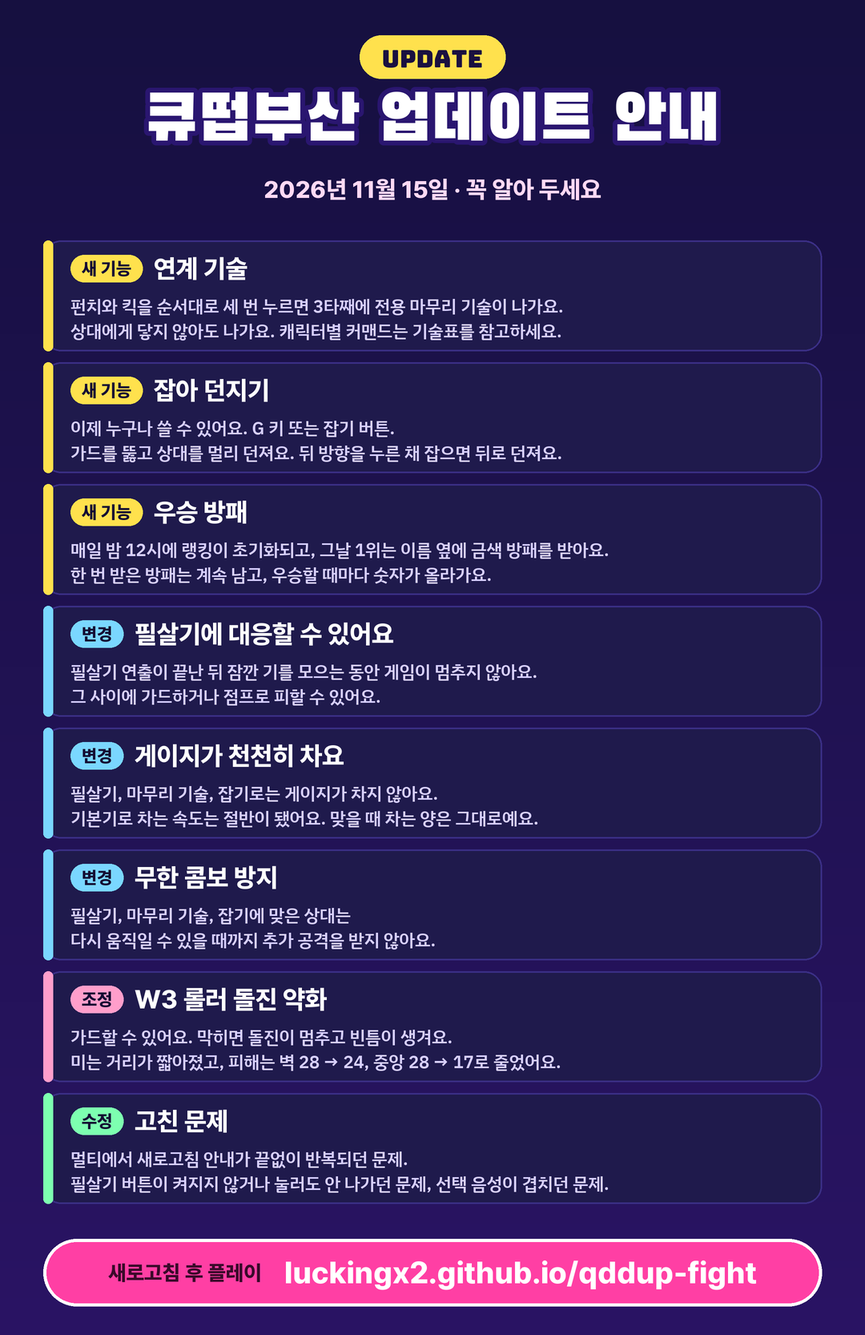
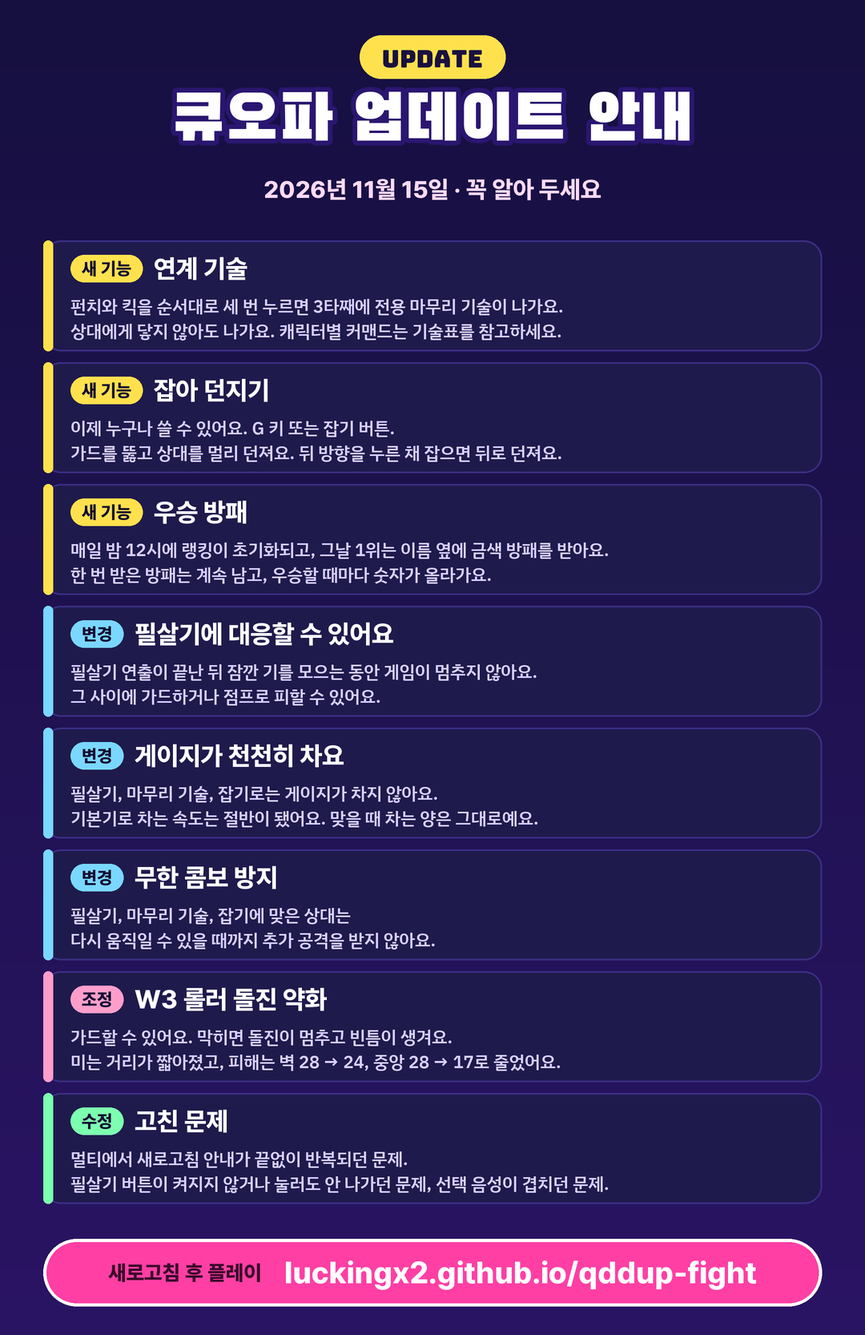
게임 이름을 큐오파로 변경, 첫 화면 표지 교체

Changed region(s): [[0.1528, 0.0624, 0.8556, 0.1248]]

diff --git a/js/assetv.js b/js/assetv.js
@@ -1,2 +1,2 @@
-const ASSET_V={"assets/audio/bgm.mp3":"1aaba7b2","assets/audio/extra-1.mp3":"27643529","assets/audio/qwer-d-day.mp3":"2830167b","assets/audio/qwer-fake-idol.mp3":"d2b479f6","assets/audio/qwer-ferris-wheel.mp3":"120067c3","assets/audio/qwer-fireworks.mp3":"bdbf5ae5","assets/audio/qwer-goodbye-sorrow.mp3":"504b895b","assets/audio/qwer-my-name-is-malguem.mp3":"eebe45ad","assets/audio/qwer-search-qwer.mp3":"e2c33678","assets/audio/qwer-soda.mp3":"25b22c69","assets/audio/qwer-tb-h.mp3":"cb39dc88","assets/audio/voices/E-select.mp3":"017d7db5","assets/audio/voices/E-win.mp3":"9423c33f","assets/audio/voices/Q-select.mp3":"2b9a2cb5","assets/audio/voices/Q-win.mp3":"32c22843","assets/audio/voices/R-select.mp3":"67428aa2","assets/audio/voices/R-win.mp3":"421a2656","assets/audio/voices/W-select.mp3":"bfeec2d0","assets/audio/voices/W-win.mp3":"286b2432","assets/backgrounds/bg_anime.webp":"49189dc7","assets/backgrounds/bg_aqua.webp":"98b68019","assets/backgrounds/bg_band.webp":"b2ecf112","assets/backgrounds/bg_base.webp":"dd71b105","assets/backgrounds/bg_beach.webp":"48f2346a","assets/backgrounds/bg_bridge.webp":"cad93db2","assets/backgrounds/bg_chinatown.webp":"657c2390","assets/backgrounds/bg_classroom.webp":"5df32c50","assets/backgrounds/bg_concert.webp":"2cd4d734","assets/backgrounds/bg_donut.webp":"8b12e605","assets/backgrounds/bg_gym.webp":"c741473c","assets/backgrounds/bg_hanok.webp":"ea64c7f2","assets/backgrounds/bg_park.webp":"f8f69fbf","assets/backgrounds/bg_rain.webp":"c4dbcf99","assets/backgrounds/bg_rooftop.webp":"d08abb70","assets/backgrounds/bg_snow.webp":"0fe806eb","assets/backgrounds/bg_space.webp":"0ff66d08","assets/backgrounds/bg_terminal.webp":"d9e9f158","assets/backgrounds/bg_terminal_arcade.webp":"690b9758","assets/characters/B.webp":"c5a6628e","assets/characters/D.webp":"324939f1","assets/characters/E.webp":"677ed11c","assets/characters/Eb.webp":"11db0723","assets/characters/Ec.webp":"b31b9f96","assets/characters/G.webp":"42d3d0da","assets/characters/Q.webp":"325fa610","assets/characters/Qb.webp":"df11a9f2","assets/characters/Qc.webp":"ab10cb82","assets/characters/R.webp":"85eb20a9","assets/characters/Rb.webp":"7c654750","assets/characters/Rc.webp":"2e6c0a8f","assets/characters/Rd.webp":"b71dec04","assets/characters/W.webp":"9e1fc381","assets/characters/Wb.webp":"ae1be10e","assets/characters/Wc.webp":"da20931e","assets/characters/ostrich-r.webp":"f36485a3","assets/emotes/icon_1.webp":"e834c9fc","assets/emotes/icon_13.webp":"ced6be1a","assets/emotes/icon_19.webp":"6eca9b25","assets/emotes/icon_22.webp":"ad3d03f1","assets/emotes/icon_28.webp":"cb4c7512","assets/emotes/icon_33.webp":"57cf40f0","assets/emotes/icon_34.webp":"333682d6","assets/emotes/icon_36.webp":"1de00e10","assets/emotes/icon_38.webp":"52043a2f","assets/emotes/icon_39.webp":"ff33cab9","assets/emotes/icon_41.webp":"3f5fabf0","assets/emotes/icon_45.webp":"addf7b16","assets/emotes/icon_46.webp":"024ab088","assets/emotes/icon_49.webp":"be67b384","assets/emotes/icon_50.webp":"3c880ad8","assets/emotes/icon_57.webp":"7f6e5ae8","assets/emotes/icon_62.webp":"099a9ec7","assets/emotes/icon_65.webp":"d664ad8d","assets/emotes/icon_69.webp":"2050c1ed","assets/emotes/icon_8.webp":"3fe0846f","assets/emotes/icon_87.webp":"905d0d99","assets/emotes/icon_89.webp":"37372a3d","assets/emotes/icon_91.webp":"89b48092","assets/emotes/icon_92.webp":"6fb425ef","assets/emotes/icon_94.webp":"b110da8e","assets/emotes/icon_95.webp":"9a6b4437","assets/emotes/icon_98.webp":"2d258415","assets/emotes/thumb/icon_1.webp":"136837e5","assets/emotes/thumb/icon_13.webp":"5e3867c1","assets/emotes/thumb/icon_19.webp":"d6eb0f03","assets/emotes/thumb/icon_22.webp":"a767fc76","assets/emotes/thumb/icon_28.webp":"ec98b5a2","assets/emotes/thumb/icon_33.webp":"6408ba02","assets/emotes/thumb/icon_34.webp":"2aa3c54a","assets/emotes/thumb/icon_36.webp":"dc3e9788","assets/emotes/thumb/icon_38.webp":"7f85a09d","assets/emotes/thumb/icon_39.webp":"b1fadb0d","assets/emotes/thumb/icon_41.webp":"7303712b","assets/emotes/thumb/icon_45.webp":"7a1924c5","assets/emotes/thumb/icon_46.webp":"5835c768","assets/emotes/thumb/icon_49.webp":"50c5dac4","assets/emotes/thumb/icon_50.webp":"d23a8087","assets/emotes/thumb/icon_57.webp":"40b0eed8","assets/emotes/thumb/icon_62.webp":"a3d334ca","assets/emotes/thumb/icon_65.webp":"d96399f3","assets/emotes/thumb/icon_69.webp":"75195972","assets/emotes/thumb/icon_8.webp":"c5c82ee8","assets/emotes/thumb/icon_87.webp":"75462682","assets/emotes/thumb/icon_89.webp":"fa2fb05b","assets/emotes/thumb/icon_91.webp":"31208034","assets/emotes/thumb/icon_92.webp":"5de92e6a","assets/emotes/thumb/icon_94.webp":"87c7110b","assets/emotes/thumb/icon_95.webp":"eff04fc8","assets/emotes/thumb/icon_98.webp":"5caa213a","assets/faces/B_face.webp":"b1b04403","assets/faces/D_face.webp":"019111cc","assets/faces/E_face.webp":"5a365c76","assets/faces/Eb_face.webp":"52f1f416","assets/faces/Ec_face.webp":"0a22ee57","assets/faces/G_face.webp":"2df10de9","assets/faces/Q_face.webp":"842ad22d","assets/faces/Qb_face.webp":"480c3aff","assets/faces/Qc_face.webp":"30e2ab72","assets/faces/R_face.webp":"646f2d28","assets/faces/Rb_face.webp":"cb5505b5","assets/faces/Rc_face.webp":"025bb463","assets/faces/Rd_face.webp":"f00b88dc","assets/faces/W_face.webp":"c8fbc6b3","assets/faces/Wb_face.webp":"2849e1bc","assets/faces/Wc_face.webp":"2972e762","assets/fonts/BlackHanSans.woff2":"c73265bb","assets/fonts/Bungee.woff2":"8ac97fda","assets/fonts/IBMPlexSansKR-Regular.woff2":"737cb610","assets/fonts/IBMPlexSansKR-SemiBold.woff2":"57c25254","assets/fonts/OFL-BlackHanSans.txt":"380fde59","assets/fonts/OFL-Bungee.txt":"56667743","assets/fonts/OFL-IBMPlexSansKR.txt":"cc979ca3","assets/fonts/OFL-Pretendard.txt":"18fe4610","assets/fonts/Pretendard-ExtraBold.woff2":"1b077a90","assets/lib/peerjs.min.js":"7e60515a","assets/thumbnails/th_anime.jpg":"b3ed8d6a","assets/thumbnails/th_aqua.jpg":"b6233e26","assets/thumbnails/th_band.jpg":"aa12367e","assets/thumbnails/th_base.jpg":"a0ca34c4","assets/thumbnails/th_beach.jpg":"015c1b5a","assets/thumbnails/th_bridge.jpg":"9602dd89","assets/thumbnails/th_chinatown.jpg":"71309555","assets/thumbnails/th_classroom.jpg":"539fc97d","assets/thumbnails/th_concert.jpg":"b9ed6681","assets/thumbnails/th_donut.jpg":"0606e81c","assets/thumbnails/th_gym.jpg":"4426af79","assets/thumbnails/th_hanok.jpg":"df80f531","assets/thumbnails/th_park.jpg":"cf62f3c3","assets/thumbnails/th_rain.jpg":"515447f1","assets/thumbnails/th_rooftop.jpg":"bfd5d01a","assets/thumbnails/th_snow.jpg":"0159d7c5","assets/thumbnails/th_space.jpg":"5184dfa8","assets/thumbnails/th_terminal.jpg":"62f1e04b","assets/thumbnails/th_terminal_arcade.jpg":"ebf49341","assets/ui/qddup-busan-cover.jpg":"04b05f5f","assets/ui/qddup-busan-share.jpg":"23fca48c","assets/ui/qddup-busan-title.mp4":"1bfd18a7","assets/ui/roster-energy.webp":"add15ffe","assets/ui/roster/B.webp":"7de4b487","assets/ui/roster/E.webp":"940c568d","assets/ui/roster/Eb.webp":"bd00a1c0","assets/ui/roster/Ec.webp":"9044e970","assets/ui/roster/G.webp":"acd26a21","assets/ui/roster/Q.webp":"91b08bca","assets/ui/roster/Qb.webp":"315030af","assets/ui/roster/Qc.webp":"807f094b","assets/ui/roster/R.webp":"129f48d1","assets/ui/roster/Rb.webp":"536e0533","assets/ui/roster/Rc.webp":"50afe96b","assets/ui/roster/Rd.webp":"08cb5ab8","assets/ui/roster/W.webp":"070725d0","assets/ui/roster/Wb.webp":"c2614728","assets/ui/roster/Wc.webp":"f48d9b9d","assets/ui/title.jpg":"89b0c471","assets/videos/sp_B.mp4":"150e2f15","assets/videos/sp_E2.mp4":"21736269","assets/videos/sp_ET.mp4":"9086c33e","assets/videos/sp_E_fire.mp4":"5477b0e8","assets/videos/sp_Eb_fire.mp4":"3722005c","assets/videos/sp_Ec_fire.mp4":"af3d6c72","assets/videos/sp_G.mp4":"02491534","assets/videos/sp_GT.mp4":"ea8f6b3c","assets/videos/sp_Q.mp4":"9d97462e","assets/videos/sp_Q2.mp4":"eccec935","assets/videos/sp_QT.mp4":"517d9216","assets/videos/sp_Qb.mp4":"ae050595","assets/videos/sp_QbT.mp4":"f0f7e747","assets/videos/sp_Qc.mp4":"c8c7d81f","assets/videos/sp_QcT.mp4":"b05c5bd9","assets/videos/sp_R.mp4":"5e365d9b","assets/videos/sp_R2.mp4":"4cc11253","assets/videos/sp_RT.mp4":"2159bf91","assets/videos/sp_Rb.mp4":"c2c76571","assets/videos/sp_Rc.mp4":"cf1e9842","assets/videos/sp_RcT.mp4":"ee13eac9","assets/videos/sp_Rd.mp4":"d3ba4c66","assets/videos/sp_W.mp4":"631249ac","assets/videos/sp_W2.mp4":"34a85605","assets/videos/sp_WT.mp4":"455ada0a","assets/videos/sp_Wb.mp4":"28692d4d","assets/videos/sp_WbT.mp4":"d18a11b6","assets/videos/sp_Wc.mp4":"3fe96d12","assets/videos/sp_WcT.mp4":"e9213c75","assets/videos/win_E.mp4":"61c0dbbd","assets/videos/win_Eb.mp4":"f2eac728","assets/videos/win_Ec.mp4":"e704afee","assets/videos/win_Q.mp4":"f5259b04","assets/videos/win_Qb.mp4":"823f7246","assets/videos/win_Qc.mp4":"6fced5a8","assets/videos/win_R.mp4":"85216692","assets/videos/win_Rb.mp4":"78ffa0bc","assets/videos/win_Rc.mp4":"93689f08","assets/videos/win_Rd.mp4":"befb25e6","assets/videos/win_W.mp4":"bd2d0315","assets/videos/win_Wb.mp4":"349f8de9","assets/videos/win_Wc.mp4":"0f0dc337"};
-const ASSET_SZ={"assets/audio/bgm.mp3":2772671,"assets/audio/extra-1.mp3":1421208,"assets/audio/qwer-d-day.mp3":3481677,"assets/audio/qwer-fake-idol.mp3":3182324,"assets/audio/qwer-ferris-wheel.mp3":4416345,"assets/audio/qwer-fireworks.mp3":4191692,"assets/audio/qwer-goodbye-sorrow.mp3":6512732,"assets/audio/qwer-my-name-is-malguem.mp3":2423692,"assets/audio/qwer-search-qwer.mp3":3201656,"assets/audio/qwer-soda.mp3":2520451,"assets/audio/qwer-tb-h.mp3":2492552,"assets/audio/voices/E-select.mp3":56436,"assets/audio/voices/E-win.mp3":50100,"assets/audio/voices/Q-select.mp3":24180,"assets/audio/voices/Q-win.mp3":56436,"assets/audio/voices/R-select.mp3":21045,"assets/audio/voices/R-win.mp3":50733,"assets/audio/voices/W-select.mp3":41460,"assets/audio/voices/W-win.mp3":52980,"assets/backgrounds/bg_anime.webp":271666,"assets/backgrounds/bg_aqua.webp":234124,"assets/backgrounds/bg_band.webp":259886,"assets/backgrounds/bg_base.webp":242646,"assets/backgrounds/bg_beach.webp":207688,"assets/backgrounds/bg_bridge.webp":245720,"assets/backgrounds/bg_chinatown.webp":352216,"assets/backgrounds/bg_classroom.webp":211716,"assets/backgrounds/bg_concert.webp":351622,"assets/backgrounds/bg_donut.webp":157200,"assets/backgrounds/bg_gym.webp":192070,"assets/backgrounds/bg_hanok.webp":323540,"assets/backgrounds/bg_park.webp":255544,"assets/backgrounds/bg_rain.webp":325186,"assets/backgrounds/bg_rooftop.webp":285004,"assets/backgrounds/bg_snow.webp":257586,"assets/backgrounds/bg_space.webp":159604,"assets/backgrounds/bg_terminal.webp":180640,"assets/backgrounds/bg_terminal_arcade.webp":196664,"assets/characters/B.webp":383354,"assets/characters/D.webp":77542,"assets/characters/E.webp":439222,"assets/characters/Eb.webp":542744,"assets/characters/Ec.webp":439992,"assets/characters/G.webp":308240,"assets/characters/Q.webp":439468,"assets/characters/Qb.webp":557222,"assets/characters/Qc.webp":408770,"assets/characters/R.webp":385970,"assets/characters/Rb.webp":419060,"assets/characters/Rc.webp":262474,"assets/characters/Rd.webp":367076,"assets/characters/W.webp":417796,"assets/characters/Wb.webp":504586,"assets/characters/Wc.webp":438174,"assets/characters/ostrich-r.webp":95146,"assets/emotes/icon_1.webp":24284,"assets/emotes/icon_13.webp":11612,"assets/emotes/icon_19.webp":11468,"assets/emotes/icon_22.webp":104130,"assets/emotes/icon_28.webp":72896,"assets/emotes/icon_33.webp":68612,"assets/emotes/icon_34.webp":87226,"assets/emotes/icon_36.webp":12980,"assets/emotes/icon_38.webp":12060,"assets/emotes/icon_39.webp":42844,"assets/emotes/icon_41.webp":12516,"assets/emotes/icon_45.webp":10738,"assets/emotes/icon_46.webp":13110,"assets/emotes/icon_49.webp":303222,"assets/emotes/icon_50.webp":128238,"assets/emotes/icon_57.webp":483596,"assets/emotes/icon_62.webp":24446,"assets/emotes/icon_65.webp":306944,"assets/emotes/icon_69.webp":251610,"assets/emotes/icon_8.webp":10938,"assets/emotes/icon_87.webp":91344,"assets/emotes/icon_89.webp":88876,"assets/emotes/icon_91.webp":62702,"assets/emotes/icon_92.webp":63076,"assets/emotes/icon_94.webp":11038,"assets/emotes/icon_95.webp":10806,"assets/emotes/icon_98.webp":239080,"assets/emotes/thumb/icon_1.webp":7826,"assets/emotes/thumb/icon_13.webp":8382,"assets/emotes/thumb/icon_19.webp":8352,"assets/emotes/thumb/icon_22.webp":7784,"assets/emotes/thumb/icon_28.webp":7924,"assets/emotes/thumb/icon_33.webp":8026,"assets/emotes/thumb/icon_34.webp":8784,"assets/emotes/thumb/icon_36.webp":9036,"assets/emotes/thumb/icon_38.webp":8554,"assets/emotes/thumb/icon_39.webp":7942,"assets/emotes/thumb/icon_41.webp":8642,"assets/emotes/thumb/icon_45.webp":7962,"assets/emotes/thumb/icon_46.webp":8930,"assets/emotes/thumb/icon_49.webp":8634,"assets/emotes/thumb/icon_50.webp":7804,"assets/emotes/thumb/icon_57.webp":8212,"assets/emotes/thumb/icon_62.webp":8168,"assets/emotes/thumb/icon_65.webp":8550,"assets/emotes/thumb/icon_69.webp":8106,"assets/emotes/thumb/icon_8.webp":8208,"assets/emotes/thumb/icon_87.webp":9368,"assets/emotes/thumb/icon_89.webp":9366,"assets/emotes/thumb/icon_91.webp":8526,"assets/emotes/thumb/icon_92.webp":8508,"assets/emotes/thumb/icon_94.webp":8008,"assets/emotes/thumb/icon_95.webp":8006,"assets/emotes/thumb/icon_98.webp":7554,"assets/faces/B_face.webp":26876,"assets/faces/D_face.webp":30910,"assets/faces/E_face.webp":31448,"assets/faces/Eb_face.webp":28958,"assets/faces/Ec_face.webp":29514,"assets/faces/G_face.webp":34300,"assets/faces/Q_face.webp":31514,"assets/faces/Qb_face.webp":25830,"assets/faces/Qc_face.webp":26818,"assets/faces/R_face.webp":29534,"assets/faces/Rb_face.webp":29564,"assets/faces/Rc_face.webp":27480,"assets/faces/Rd_face.webp":34056,"assets/faces/W_face.webp":34596,"assets/faces/Wb_face.webp":32668,"assets/faces/Wc_face.webp":28818,"assets/fonts/BlackHanSans.woff2":166800,"assets/fonts/Bungee.woff2":13352,"assets/fonts/IBMPlexSansKR-Regular.woff2":226624,"assets/fonts/IBMPlexSansKR-SemiBold.woff2":264208,"assets/fonts/OFL-BlackHanSans.txt":4399,"assets/fonts/OFL-Bungee.txt":4380,"assets/fonts/OFL-IBMPlexSansKR.txt":4363,"assets/fonts/OFL-Pretendard.txt":4441,"assets/fonts/Pretendard-ExtraBold.woff2":182064,"assets/lib/peerjs.min.js":92865,"assets/thumbnails/th_anime.jpg":31332,"assets/thumbnails/th_aqua.jpg":29758,"assets/thumbnails/th_band.jpg":30030,"assets/thumbnails/th_base.jpg":24583,"assets/thumbnails/th_beach.jpg":26187,"assets/thumbnails/th_bridge.jpg":22121,"assets/thumbnails/th_chinatown.jpg":26539,"assets/thumbnails/th_classroom.jpg":21560,"assets/thumbnails/th_concert.jpg":34117,"assets/thumbnails/th_donut.jpg":26806,"assets/thumbnails/th_gym.jpg":30375,"assets/thumbnails/th_hanok.jpg":30309,"assets/thumbnails/th_park.jpg":29202,"assets/thumbnails/th_rain.jpg":23667,"assets/thumbnails/th_rooftop.jpg":29082,"assets/thumbnails/th_snow.jpg":31092,"assets/thumbnails/th_space.jpg":27325,"assets/thumbnails/th_terminal.jpg":19029,"assets/thumbnails/th_terminal_arcade.jpg":22903,"assets/ui/qddup-busan-cover.jpg":595026,"assets/ui/qddup-busan-share.jpg":321761,"assets/ui/qddup-busan-title.mp4":6951589,"assets/ui/roster-energy.webp":66212,"assets/ui/roster/B.webp":32290,"assets/ui/roster/E.webp":30794,"assets/ui/roster/Eb.webp":61010,"assets/ui/roster/Ec.webp":48316,"assets/ui/roster/G.webp":26892,"assets/ui/roster/Q.webp":34780,"assets/ui/roster/Qb.webp":42952,"assets/ui/roster/Qc.webp":35238,"assets/ui/roster/R.webp":43480,"assets/ui/roster/Rb.webp":34188,"assets/ui/roster/Rc.webp":20354,"assets/ui/roster/Rd.webp":31504,"assets/ui/roster/W.webp":31680,"assets/ui/roster/Wb.webp":44496,"assets/ui/roster/Wc.webp":40038,"assets/ui/title.jpg":462238,"assets/videos/sp_B.mp4":344913,"assets/videos/sp_E2.mp4":555611,"assets/videos/sp_ET.mp4":590812,"assets/videos/sp_E_fire.mp4":485303,"assets/videos/sp_Eb_fire.mp4":540582,"assets/videos/sp_Ec_fire.mp4":462202,"assets/videos/sp_G.mp4":391907,"assets/videos/sp_GT.mp4":327412,"assets/videos/sp_Q.mp4":576475,"assets/videos/sp_Q2.mp4":446211,"assets/videos/sp_QT.mp4":552351,"assets/videos/sp_Qb.mp4":895493,"assets/videos/sp_QbT.mp4":958651,"assets/videos/sp_Qc.mp4":515706,"assets/videos/sp_QcT.mp4":543566,"assets/videos/sp_R.mp4":570469,"assets/videos/sp_R2.mp4":581679,"assets/videos/sp_RT.mp4":728137,"assets/videos/sp_Rb.mp4":450254,"assets/videos/sp_Rc.mp4":604079,"assets/videos/sp_RcT.mp4":732498,"assets/videos/sp_Rd.mp4":302202,"assets/videos/sp_W.mp4":487224,"assets/videos/sp_W2.mp4":595850,"assets/videos/sp_WT.mp4":682716,"assets/videos/sp_Wb.mp4":463691,"assets/videos/sp_WbT.mp4":806668,"assets/videos/sp_Wc.mp4":368021,"assets/videos/sp_WcT.mp4":518172,"assets/videos/win_E.mp4":1664151,"assets/videos/win_Eb.mp4":1416780,"assets/videos/win_Ec.mp4":1516352,"assets/videos/win_Q.mp4":1371788,"assets/videos/win_Qb.mp4":1334217,"assets/videos/win_Qc.mp4":1481245,"assets/videos/win_R.mp4":1211274,"assets/videos/win_Rb.mp4":1201611,"assets/videos/win_Rc.mp4":1199946,"assets/videos/win_Rd.mp4":1812226,"assets/videos/win_W.mp4":1770408,"assets/videos/win_Wb.mp4":1332037,"assets/videos/win_Wc.mp4":1279533};
+const ASSET_V={"assets/audio/bgm.mp3":"1aaba7b2","assets/audio/extra-1.mp3":"27643529","assets/audio/qwer-d-day.mp3":"2830167b","assets/audio/qwer-fake-idol.mp3":"d2b479f6","assets/audio/qwer-ferris-wheel.mp3":"120067c3","assets/audio/qwer-fireworks.mp3":"bdbf5ae5","assets/audio/qwer-goodbye-sorrow.mp3":"504b895b","assets/audio/qwer-my-name-is-malguem.mp3":"eebe45ad","assets/audio/qwer-search-qwer.mp3":"e2c33678","assets/audio/qwer-soda.mp3":"25b22c69","assets/audio/qwer-tb-h.mp3":"cb39dc88","assets/audio/voices/E-select.mp3":"017d7db5","assets/audio/voices/E-win.mp3":"9423c33f","assets/audio/voices/Q-select.mp3":"2b9a2cb5","assets/audio/voices/Q-win.mp3":"32c22843","assets/audio/voices/R-select.mp3":"67428aa2","assets/audio/voices/R-win.mp3":"421a2656","assets/audio/voices/W-select.mp3":"bfeec2d0","assets/audio/voices/W-win.mp3":"286b2432","assets/backgrounds/bg_anime.webp":"49189dc7","assets/backgrounds/bg_aqua.webp":"98b68019","assets/backgrounds/bg_band.webp":"b2ecf112","assets/backgrounds/bg_base.webp":"dd71b105","assets/backgrounds/bg_beach.webp":"48f2346a","assets/backgrounds/bg_bridge.webp":"cad93db2","assets/backgrounds/bg_chinatown.webp":"657c2390","assets/backgrounds/bg_classroom.webp":"5df32c50","assets/backgrounds/bg_concert.webp":"2cd4d734","assets/backgrounds/bg_donut.webp":"8b12e605","assets/backgrounds/bg_gym.webp":"c741473c","assets/backgrounds/bg_hanok.webp":"ea64c7f2","assets/backgrounds/bg_park.webp":"f8f69fbf","assets/backgrounds/bg_rain.webp":"c4dbcf99","assets/backgrounds/bg_rooftop.webp":"d08abb70","assets/backgrounds/bg_snow.webp":"0fe806eb","assets/backgrounds/bg_space.webp":"0ff66d08","assets/backgrounds/bg_terminal.webp":"d9e9f158","assets/backgrounds/bg_terminal_arcade.webp":"690b9758","assets/characters/B.webp":"c5a6628e","assets/characters/D.webp":"324939f1","assets/characters/E.webp":"677ed11c","assets/characters/Eb.webp":"11db0723","assets/characters/Ec.webp":"b31b9f96","assets/characters/G.webp":"42d3d0da","assets/characters/Q.webp":"325fa610","assets/characters/Qb.webp":"df11a9f2","assets/characters/Qc.webp":"ab10cb82","assets/characters/R.webp":"85eb20a9","assets/characters/Rb.webp":"7c654750","assets/characters/Rc.webp":"2e6c0a8f","assets/characters/Rd.webp":"b71dec04","assets/characters/W.webp":"9e1fc381","assets/characters/Wb.webp":"ae1be10e","assets/characters/Wc.webp":"da20931e","assets/characters/ostrich-r.webp":"f36485a3","assets/emotes/icon_1.webp":"e834c9fc","assets/emotes/icon_13.webp":"ced6be1a","assets/emotes/icon_19.webp":"6eca9b25","assets/emotes/icon_22.webp":"ad3d03f1","assets/emotes/icon_28.webp":"cb4c7512","assets/emotes/icon_33.webp":"57cf40f0","assets/emotes/icon_34.webp":"333682d6","assets/emotes/icon_36.webp":"1de00e10","assets/emotes/icon_38.webp":"52043a2f","assets/emotes/icon_39.webp":"ff33cab9","assets/emotes/icon_41.webp":"3f5fabf0","assets/emotes/icon_45.webp":"addf7b16","assets/emotes/icon_46.webp":"024ab088","assets/emotes/icon_49.webp":"be67b384","assets/emotes/icon_50.webp":"3c880ad8","assets/emotes/icon_57.webp":"7f6e5ae8","assets/emotes/icon_62.webp":"099a9ec7","assets/emotes/icon_65.webp":"d664ad8d","assets/emotes/icon_69.webp":"2050c1ed","assets/emotes/icon_8.webp":"3fe0846f","assets/emotes/icon_87.webp":"905d0d99","assets/emotes/icon_89.webp":"37372a3d","assets/emotes/icon_91.webp":"89b48092","assets/emotes/icon_92.webp":"6fb425ef","assets/emotes/icon_94.webp":"b110da8e","assets/emotes/icon_95.webp":"9a6b4437","assets/emotes/icon_98.webp":"2d258415","assets/emotes/thumb/icon_1.webp":"136837e5","assets/emotes/thumb/icon_13.webp":"5e3867c1","assets/emotes/thumb/icon_19.webp":"d6eb0f03","assets/emotes/thumb/icon_22.webp":"a767fc76","assets/emotes/thumb/icon_28.webp":"ec98b5a2","assets/emotes/thumb/icon_33.webp":"6408ba02","assets/emotes/thumb/icon_34.webp":"2aa3c54a","assets/emotes/thumb/icon_36.webp":"dc3e9788","assets/emotes/thumb/icon_38.webp":"7f85a09d","assets/emotes/thumb/icon_39.webp":"b1fadb0d","assets/emotes/thumb/icon_41.webp":"7303712b","assets/emotes/thumb/icon_45.webp":"7a1924c5","assets/emotes/thumb/icon_46.webp":"5835c768","assets/emotes/thumb/icon_49.webp":"50c5dac4","assets/emotes/thumb/icon_50.webp":"d23a8087","assets/emotes/thumb/icon_57.webp":"40b0eed8","assets/emotes/thumb/icon_62.webp":"a3d334ca","assets/emotes/thumb/icon_65.webp":"d96399f3","assets/emotes/thumb/icon_69.webp":"75195972","assets/emotes/thumb/icon_8.webp":"c5c82ee8","assets/emotes/thumb/icon_87.webp":"75462682","assets/emotes/thumb/icon_89.webp":"fa2fb05b","assets/emotes/thumb/icon_91.webp":"31208034","assets/emotes/thumb/icon_92.webp":"5de92e6a","assets/emotes/thumb/icon_94.webp":"87c7110b","assets/emotes/thumb/icon_95.webp":"eff04fc8","assets/emotes/thumb/icon_98.webp":"5caa213a","assets/faces/B_face.webp":"b1b04403","assets/faces/D_face.webp":"019111cc","assets/faces/E_face.webp":"5a365c76","assets/faces/Eb_face.webp":"52f1f416","assets/faces/Ec_face.webp":"0a22ee57","assets/faces/G_face.webp":"2df10de9","assets/faces/Q_face.webp":"842ad22d","assets/faces/Qb_face.webp":"480c3aff","assets/faces/Qc_face.webp":"30e2ab72","assets/faces/R_face.webp":"646f2d28","assets/faces/Rb_face.webp":"cb5505b5","assets/faces/Rc_face.webp":"025bb463","assets/faces/Rd_face.webp":"f00b88dc","assets/faces/W_face.webp":"c8fbc6b3","assets/faces/Wb_face.webp":"2849e1bc","assets/faces/Wc_face.webp":"2972e762","assets/fonts/BlackHanSans.woff2":"c73265bb","assets/fonts/Bungee.woff2":"8ac97fda","assets/fonts/IBMPlexSansKR-Regular.woff2":"737cb610","assets/fonts/IBMPlexSansKR-SemiBold.woff2":"57c25254","assets/fonts/OFL-BlackHanSans.txt":"380fde59","assets/fonts/OFL-Bungee.txt":"56667743","assets/fonts/OFL-IBMPlexSansKR.txt":"cc979ca3","assets/fonts/OFL-Pretendard.txt":"18fe4610","assets/fonts/Pretendard-ExtraBold.woff2":"1b077a90","assets/lib/peerjs.min.js":"7e60515a","assets/thumbnails/th_anime.jpg":"b3ed8d6a","assets/thumbnails/th_aqua.jpg":"b6233e26","assets/thumbnails/th_band.jpg":"aa12367e","assets/thumbnails/th_base.jpg":"a0ca34c4","assets/thumbnails/th_beach.jpg":"015c1b5a","assets/thumbnails/th_bridge.jpg":"9602dd89","assets/thumbnails/th_chinatown.jpg":"71309555","assets/thumbnails/th_classroom.jpg":"539fc97d","assets/thumbnails/th_concert.jpg":"b9ed6681","assets/thumbnails/th_donut.jpg":"0606e81c","assets/thumbnails/th_gym.jpg":"4426af79","assets/thumbnails/th_hanok.jpg":"df80f531","assets/thumbnails/th_park.jpg":"cf62f3c3","assets/thumbnails/th_rain.jpg":"515447f1","assets/thumbnails/th_rooftop.jpg":"bfd5d01a","assets/thumbnails/th_snow.jpg":"0159d7c5","assets/thumbnails/th_space.jpg":"5184dfa8","assets/thumbnails/th_terminal.jpg":"62f1e04b","assets/thumbnails/th_terminal_arcade.jpg":"ebf49341","assets/ui/qddup-busan-cover.jpg":"04b05f5f","assets/ui/qddup-busan-share.jpg":"23fca48c","assets/ui/qddup-busan-title.mp4":"1bfd18a7","assets/ui/qofa-cover.jpg":"c94842ad","assets/ui/qofa-share.jpg":"9a9f7c7e","assets/ui/roster-energy.webp":"add15ffe","assets/ui/roster/B.webp":"7de4b487","assets/ui/roster/E.webp":"940c568d","assets/ui/roster/Eb.webp":"bd00a1c0","assets/ui/roster/Ec.webp":"9044e970","assets/ui/roster/G.webp":"acd26a21","assets/ui/roster/Q.webp":"91b08bca","assets/ui/roster/Qb.webp":"315030af","assets/ui/roster/Qc.webp":"807f094b","assets/ui/roster/R.webp":"129f48d1","assets/ui/roster/Rb.webp":"536e0533","assets/ui/roster/Rc.webp":"50afe96b","assets/ui/roster/Rd.webp":"08cb5ab8","assets/ui/roster/W.webp":"070725d0","assets/ui/roster/Wb.webp":"c2614728","assets/ui/roster/Wc.webp":"f48d9b9d","assets/ui/title.jpg":"89b0c471","assets/videos/sp_B.mp4":"150e2f15","assets/videos/sp_E2.mp4":"21736269","assets/videos/sp_ET.mp4":"9086c33e","assets/videos/sp_E_fire.mp4":"5477b0e8","assets/videos/sp_Eb_fire.mp4":"3722005c","assets/videos/sp_Ec_fire.mp4":"af3d6c72","assets/videos/sp_G.mp4":"02491534","assets/videos/sp_GT.mp4":"ea8f6b3c","assets/videos/sp_Q.mp4":"9d97462e","assets/videos/sp_Q2.mp4":"eccec935","assets/videos/sp_QT.mp4":"517d9216","assets/videos/sp_Qb.mp4":"ae050595","assets/videos/sp_QbT.mp4":"f0f7e747","assets/videos/sp_Qc.mp4":"c8c7d81f","assets/videos/sp_QcT.mp4":"b05c5bd9","assets/videos/sp_R.mp4":"5e365d9b","assets/videos/sp_R2.mp4":"4cc11253","assets/videos/sp_RT.mp4":"2159bf91","assets/videos/sp_Rb.mp4":"c2c76571","assets/videos/sp_Rc.mp4":"cf1e9842","assets/videos/sp_RcT.mp4":"ee13eac9","assets/videos/sp_Rd.mp4":"d3ba4c66","assets/videos/sp_W.mp4":"631249ac","assets/videos/sp_W2.mp4":"34a85605","assets/videos/sp_WT.mp4":"455ada0a","assets/videos/sp_Wb.mp4":"28692d4d","assets/videos/sp_WbT.mp4":"d18a11b6","assets/videos/sp_Wc.mp4":"3fe96d12","assets/videos/sp_WcT.mp4":"e9213c75","assets/videos/win_E.mp4":"61c0dbbd","assets/videos/win_Eb.mp4":"f2eac728","assets/videos/win_Ec.mp4":"e704afee","assets/videos/win_Q.mp4":"f5259b04","assets/videos/win_Qb.mp4":"823f7246","assets/videos/win_Qc.mp4":"6fced5a8","assets/videos/win_R.mp4":"85216692","assets/videos/win_Rb.mp4":"78ffa0bc","assets/videos/win_Rc.mp4":"93689f08","assets/videos/win_Rd.mp4":"befb25e6","assets/videos/win_W.mp4":"bd2d0315","assets/videos/win_Wb.mp4":"349f8de9","assets/videos/win_Wc.mp4":"0f0dc337"};
+const ASSET_SZ={"assets/audio/bgm.mp3":2772671,"assets/audio/extra-1.mp3":1421208,"assets/audio/qwer-d-day.mp3":3481677,"assets/audio/qwer-fake-idol.mp3":3182324,"assets/audio/qwer-ferris-wheel.mp3":4416345,"assets/audio/qwer-fireworks.mp3":4191692,"assets/audio/qwer-goodbye-sorrow.mp3":6512732,"assets/audio/qwer-my-name-is-malguem.mp3":2423692,"assets/audio/qwer-search-qwer.mp3":3201656,"assets/audio/qwer-soda.mp3":2520451,"assets/audio/qwer-tb-h.mp3":2492552,"assets/audio/voices/E-select.mp3":56436,"assets/audio/voices/E-win.mp3":50100,"assets/audio/voices/Q-select.mp3":24180,"assets/audio/voices/Q-win.mp3":56436,"assets/audio/voices/R-select.mp3":21045,"assets/audio/voices/R-win.mp3":50733,"assets/audio/voices/W-select.mp3":41460,"assets/audio/voices/W-win.mp3":52980,"assets/backgrounds/bg_anime.webp":271666,"assets/backgrounds/bg_aqua.webp":234124,"assets/backgrounds/bg_band.webp":259886,"assets/backgrounds/bg_base.webp":242646,"assets/backgrounds/bg_beach.webp":207688,"assets/backgrounds/bg_bridge.webp":245720,"assets/backgrounds/bg_chinatown.webp":352216,"assets/backgrounds/bg_classroom.webp":211716,"assets/backgrounds/bg_concert.webp":351622,"assets/backgrounds/bg_donut.webp":157200,"assets/backgrounds/bg_gym.webp":192070,"assets/backgrounds/bg_hanok.webp":323540,"assets/backgrounds/bg_park.webp":255544,"assets/backgrounds/bg_rain.webp":325186,"assets/backgrounds/bg_rooftop.webp":285004,"assets/backgrounds/bg_snow.webp":257586,"assets/backgrounds/bg_space.webp":159604,"assets/backgrounds/bg_terminal.webp":180640,"assets/backgrounds/bg_terminal_arcade.webp":196664,"assets/characters/B.webp":383354,"assets/characters/D.webp":77542,"assets/characters/E.webp":439222,"assets/characters/Eb.webp":542744,"assets/characters/Ec.webp":439992,"assets/characters/G.webp":308240,"assets/characters/Q.webp":439468,"assets/characters/Qb.webp":557222,"assets/characters/Qc.webp":408770,"assets/characters/R.webp":385970,"assets/characters/Rb.webp":419060,"assets/characters/Rc.webp":262474,"assets/characters/Rd.webp":367076,"assets/characters/W.webp":417796,"assets/characters/Wb.webp":504586,"assets/characters/Wc.webp":438174,"assets/characters/ostrich-r.webp":95146,"assets/emotes/icon_1.webp":24284,"assets/emotes/icon_13.webp":11612,"assets/emotes/icon_19.webp":11468,"assets/emotes/icon_22.webp":104130,"assets/emotes/icon_28.webp":72896,"assets/emotes/icon_33.webp":68612,"assets/emotes/icon_34.webp":87226,"assets/emotes/icon_36.webp":12980,"assets/emotes/icon_38.webp":12060,"assets/emotes/icon_39.webp":42844,"assets/emotes/icon_41.webp":12516,"assets/emotes/icon_45.webp":10738,"assets/emotes/icon_46.webp":13110,"assets/emotes/icon_49.webp":303222,"assets/emotes/icon_50.webp":128238,"assets/emotes/icon_57.webp":483596,"assets/emotes/icon_62.webp":24446,"assets/emotes/icon_65.webp":306944,"assets/emotes/icon_69.webp":251610,"assets/emotes/icon_8.webp":10938,"assets/emotes/icon_87.webp":91344,"assets/emotes/icon_89.webp":88876,"assets/emotes/icon_91.webp":62702,"assets/emotes/icon_92.webp":63076,"assets/emotes/icon_94.webp":11038,"assets/emotes/icon_95.webp":10806,"assets/emotes/icon_98.webp":239080,"assets/emotes/thumb/icon_1.webp":7826,"assets/emotes/thumb/icon_13.webp":8382,"assets/emotes/thumb/icon_19.webp":8352,"assets/emotes/thumb/icon_22.webp":7784,"assets/emotes/thumb/icon_28.webp":7924,"assets/emotes/thumb/icon_33.webp":8026,"assets/emotes/thumb/icon_34.webp":8784,"assets/emotes/thumb/icon_36.webp":9036,"assets/emotes/thumb/icon_38.webp":8554,"assets/emotes/thumb/icon_39.webp":7942,"assets/emotes/thumb/icon_41.webp":8642,"assets/emotes/thumb/icon_45.webp":7962,"assets/emotes/thumb/icon_46.webp":8930,"assets/emotes/thumb/icon_49.webp":8634,"assets/emotes/thumb/icon_50.webp":7804,"assets/emotes/thumb/icon_57.webp":8212,"assets/emotes/thumb/icon_62.webp":8168,"assets/emotes/thumb/icon_65.webp":8550,"assets/emotes/thumb/icon_69.webp":8106,"assets/emotes/thumb/icon_8.webp":8208,"assets/emotes/thumb/icon_87.webp":9368,"assets/emotes/thumb/icon_89.webp":9366,"assets/emotes/thumb/icon_91.webp":8526,"assets/emotes/thumb/icon_92.webp":8508,"assets/emotes/thumb/icon_94.webp":8008,"assets/emotes/thumb/icon_95.webp":8006,"assets/emotes/thumb/icon_98.webp":7554,"assets/faces/B_face.webp":26876,"assets/faces/D_face.webp":30910,"assets/faces/E_face.webp":31448,"assets/faces/Eb_face.webp":28958,"assets/faces/Ec_face.webp":29514,"assets/faces/G_face.webp":34300,"assets/faces/Q_face.webp":31514,"assets/faces/Qb_face.webp":25830,"assets/faces/Qc_face.webp":26818,"assets/faces/R_face.webp":29534,"assets/faces/Rb_face.webp":29564,"assets/faces/Rc_face.webp":27480,"assets/faces/Rd_face.webp":34056,"assets/faces/W_face.webp":34596,"assets/faces/Wb_face.webp":32668,"assets/faces/Wc_face.webp":28818,"assets/fonts/BlackHanSans.woff2":166800,"assets/fonts/Bungee.woff2":13352,"assets/fonts/IBMPlexSansKR-Regular.woff2":226624,"assets/fonts/IBMPlexSansKR-SemiBold.woff2":264208,"assets/fonts/OFL-BlackHanSans.txt":4399,"assets/fonts/OFL-Bungee.txt":4380,"assets/fonts/OFL-IBMPlexSansKR.txt":4363,"assets/fonts/OFL-Pretendard.txt":4441,"assets/fonts/Pretendard-ExtraBold.woff2":182064,"assets/lib/peerjs.min.js":92865,"assets/thumbnails/th_anime.jpg":31332,"assets/thumbnails/th_aqua.jpg":29758,"assets/thumbnails/th_band.jpg":30030,"assets/thumbnails/th_base.jpg":24583,"assets/thumbnails/th_beach.jpg":26187,"assets/thumbnails/th_bridge.jpg":22121,"assets/thumbnails/th_chinatown.jpg":26539,"assets/thumbnails/th_classroom.jpg":21560,"assets/thumbnails/th_concert.jpg":34117,"assets/thumbnails/th_donut.jpg":26806,"assets/thumbnails/th_gym.jpg":30375,"assets/thumbnails/th_hanok.jpg":30309,"assets/thumbnails/th_park.jpg":29202,"assets/thumbnails/th_rain.jpg":23667,"assets/thumbnails/th_rooftop.jpg":29082,"assets/thumbnails/th_snow.jpg":31092,"assets/thumbnails/th_space.jpg":27325,"assets/thumbnails/th_terminal.jpg":19029,"assets/thumbnails/th_terminal_arcade.jpg":22903,"assets/ui/qddup-busan-cover.jpg":595026,"assets/ui/qddup-busan-share.jpg":321761,"assets/ui/qddup-busan-title.mp4":6951589,"assets/ui/qofa-cover.jpg":348381,"assets/ui/qofa-share.jpg":244579,"assets/ui/roster-energy.webp":66212,"assets/ui/roster/B.webp":32290,"assets/ui/roster/E.webp":30794,"assets/ui/roster/Eb.webp":61010,"assets/ui/roster/Ec.webp":48316,"assets/ui/roster/G.webp":26892,"assets/ui/roster/Q.webp":34780,"assets/ui/roster/Qb.webp":42952,"assets/ui/roster/Qc.webp":35238,"assets/ui/roster/R.webp":43480,"assets/ui/roster/Rb.webp":34188,"assets/ui/roster/Rc.webp":20354,"assets/ui/roster/Rd.webp":31504,"assets/ui/roster/W.webp":31680,"assets/ui/roster/Wb.webp":44496,"assets/ui/roster/Wc.webp":40038,"assets/ui/title.jpg":462238,"assets/videos/sp_B.mp4":344913,"assets/videos/sp_E2.mp4":555611,"assets/videos/sp_ET.mp4":590812,"assets/videos/sp_E_fire.mp4":485303,"assets/videos/sp_Eb_fire.mp4":540582,"assets/videos/sp_Ec_fire.mp4":462202,"assets/videos/sp_G.mp4":391907,"assets/videos/sp_GT.mp4":327412,"assets/videos/sp_Q.mp4":576475,"assets/videos/sp_Q2.mp4":446211,"assets/videos/sp_QT.mp4":552351,"assets/videos/sp_Qb.mp4":895493,"assets/videos/sp_QbT.mp4":958651,"assets/videos/sp_Qc.mp4":515706,"assets/videos/sp_QcT.mp4":543566,"assets/videos/sp_R.mp4":570469,"assets/videos/sp_R2.mp4":581679,"assets/videos/sp_RT.mp4":728137,"assets/videos/sp_Rb.mp4":450254,"assets/videos/sp_Rc.mp4":604079,"assets/videos/sp_RcT.mp4":732498,"assets/videos/sp_Rd.mp4":302202,"assets/videos/sp_W.mp4":487224,"assets/videos/sp_W2.mp4":595850,"assets/videos/sp_WT.mp4":682716,"assets/videos/sp_Wb.mp4":463691,"assets/videos/sp_WbT.mp4":806668,"assets/videos/sp_Wc.mp4":368021,"assets/videos/sp_WcT.mp4":518172,"assets/videos/win_E.mp4":1664151,"assets/videos/win_Eb.mp4":1416780,"assets/videos/win_Ec.mp4":1516352,"assets/videos/win_Q.mp4":1371788,"assets/videos/win_Qb.mp4":1334217,"assets/videos/win_Qc.mp4":1481245,"assets/videos/win_R.mp4":1211274,"assets/videos/win_Rb.mp4":1201611,"assets/videos/win_Rc.mp4":1199946,"assets/videos/win_Rd.mp4":1812226,"assets/videos/win_W.mp4":1770408,"assets/videos/win_Wb.mp4":1332037,"assets/videos/win_Wc.mp4":1279533};

diff --git a/index.html b/index.html
@@ -6,15 +6,15 @@
 <meta name="realtime-api" content="">
 <meta name="build" content="20261115212649">
 <meta name="viewport" content="width=device-width,initial-scale=1,maximum-scale=1,user-scalable=no">
-<title>큐떱부산</title>
+<title>큐오파</title>
 <meta property="og:type" content="website">
-<meta property="og:title" content="큐떱부산">
+<meta property="og:title" content="큐오파">
 <meta property="og:description" content="Q·W·E·R과 함께하는 아케이드 격투 게임">
 <meta property="og:image" content="https://luckingx2.github.io/qddup-fight/assets/ui/qofa-share.jpg">
 <meta property="og:image:width" content="1200">
 <meta property="og:image:height" content="630">
 <meta name="twitter:card" content="summary_large_image">
-<link rel="stylesheet" href="css/style.css?v=7babd636">
+<link rel="stylesheet" href="css/style.css?v=05471748">
 <link rel="stylesheet" href="css/select.css?v=17087a6e">
 </head>
 <body>
@@ -50,10 +50,10 @@
   </form>
 </dialog>
 
-<section id="sTitle" class="scr"><video id="ttl" src="assets/ui/qddup-busan-title.mp4?v=1bfd18a7" poster="assets/ui/qddup-busan-cover.jpg" preload="none" muted playsinline aria-label="큐떱부산 오프닝"></video><form id="titleForm" novalidate><div class="title-tools"><button id="titleVoice" type="button" aria-label="오프닝 음성 재생">▶ 음성 듣기</button></div><div id="authFields"><input id="nick" type="text" maxlength="16" autocomplete="username" placeholder="닉네임 (2~16자)" aria-label="닉네임"><input id="pw" type="password" maxlength="64" autocomplete="current-password" placeholder="비밀번호 (4자 이상)" aria-label="비밀번호"><button class="btn" id="tGo" type="submit">로그인</button></div><div id="authMe" hidden><button class="btn" id="tStart" type="button">시작하기</button></div><p id="authMsg" role="status"></p></form></section>
+<section id="sTitle" class="scr"><video id="ttl" poster="assets/ui/qofa-cover.jpg" preload="none" muted playsinline aria-label="큐오파 표지"></video><form id="titleForm" novalidate><div class="title-tools"><button id="titleVoice" type="button" aria-label="오프닝 음성 재생" hidden>▶ 음성 듣기</button></div><div id="authFields"><input id="nick" type="text" maxlength="16" autocomplete="username" placeholder="닉네임 (2~16자)" aria-label="닉네임"><input id="pw" type="password" maxlength="64" autocomplete="current-password" placeholder="비밀번호 (4자 이상)" aria-label="비밀번호"><button class="btn" id="tGo" type="submit">로그인</button></div><div id="authMe" hidden><button class="btn" id="tStart" type="button">시작하기</button></div><p id="authMsg" role="status"></p></form></section>
 <section id="sMenu" class="scr">
   <div id="onlineNow" class="loading"><i></i><span>접속 인원 조회 중…</span></div>
-  <h1 class="logo">큐떱부산<small id="menuSub">메인 메뉴</small></h1>
+  <h1 class="logo">큐오파<small id="menuSub">메인 메뉴</small></h1>
   <div class="menuList" id="menuList"></div>
   <div class="menuPanel nbox" id="settingsPanel" hidden>
     <div class="setTabs" role="tablist"><button type="button" role="tab" data-tab="sound" class="on" aria-selected="true">소리</button><button type="button" role="tab" data-tab="control" aria-selected="false">조작</button><button type="button" role="tab" data-tab="emote" aria-selected="false">감정표현</button><button type="button" role="tab" data-tab="account" aria-selected="false">계정</button></div>
@@ -87,7 +87,7 @@
   <div class="select-shell">
     <header class="select-header">
       <div class="preview-caption"><span>PLAYER 1</span><strong id="pvN" aria-live="polite"></strong></div>
-      <div class="select-logo"><span>큐떱부산</span><h1>CHARACTER SELECT</h1></div>
+      <div class="select-logo"><span>큐오파</span><h1>CHARACTER SELECT</h1></div>
       <div class="opponent-caption"><span id="opponentRole"></span><strong id="opponentName">?</strong></div>
     </header>
     <div class="select-body">
@@ -132,7 +132,7 @@
 <div id="winCut"><video id="winVid" playsinline preload="none" aria-label="승리 세리머니"></video><span>화면을 누르면 건너뛰기</span></div>
 <div id="load"><div id="loadT">LOADING</div><div class="gauge"><i id="loadFill"></i></div><div id="loadPct">0%</div></div>
 
-<script src="js/assetv.js?v=7d9c421f"></script>
+<script src="js/assetv.js?v=91c04226"></script>
 <script src="js/data.js?v=d43404ca"></script>
 <script src="js/audio.js?v=02f325de"></script>
 <script src="js/screens.js?v=bfc91c93"></script>

diff --git a/css/style.css b/css/style.css
@@ -76,7 +76,7 @@ canvas{width:100%;height:100%;display:block}
 .btn{font-family:'Pretendard',sans-serif;font-size:20px;padding:13px 30px;border-radius:999px;border:0;background:var(--holo);color:#15132e;cursor:pointer;box-shadow:0 6px 0 #6b5fb0,0 12px 24px rgba(0,0,0,.4)}
 .btn:active{transform:translateY(4px);box-shadow:0 2px 0 #6b5fb0}
 .joinForm{display:grid;gap:12px;width:100%}#nIn,#nick,#pw{user-select:text;-webkit-user-select:text;touch-action:manipulation}#sNet{z-index:40;background:rgba(7,6,15,.9)}.nbox{display:flex;flex-direction:column;align-items:center;gap:14px;padding:26px 22px;border-radius:20px;border:2px solid var(--line);background:var(--pan);max-width:360px;width:100%;text-align:center}.nbox h3{margin:0;font-family:'Pretendard',sans-serif;font-size:22px}.nbox p{margin:0;color:var(--dim);font-size:13px;line-height:1.5}.nbox .code{font-family:'Bungee',sans-serif;font-size:46px;letter-spacing:.14em;color:#fff;user-select:all;-webkit-user-select:all}.nbox input{font-family:'Bungee',sans-serif;font-size:32px;letter-spacing:.14em;text-align:center;text-transform:uppercase;width:100%;padding:10px;border-radius:12px;border:2px solid var(--line);background:#0b0a1c;color:#fff;outline:none}#netRow .btn{font-size:14px;padding:8px 16px}
-#sTitle{background:#07060f;gap:12px;padding:0 0 calc(14px + env(safe-area-inset-bottom));justify-content:center;overflow:hidden}#sTitle::before{content:'';position:absolute;inset:-40px;background:url(../assets/ui/qddup-busan-cover.jpg?v=04b05f5f) center/cover;filter:blur(26px) brightness(.45);z-index:0}#ttl{position:relative;z-index:1;display:block;width:100%;flex:0 1 auto;min-height:0;max-height:calc(100% - 84px);object-fit:contain}#titleForm{position:relative;z-index:1;display:grid;justify-items:center;gap:8px;width:min(92%,360px);flex:0 0 auto}#nick,#pw{width:100%;padding:10px 14px;border:1px solid var(--line);border-radius:12px;background:#15132e;color:var(--txt);font:inherit;font-size:16px;text-align:center}#ttl{max-height:calc(100% - 145px)}#onlineRow .btn{font-size:14px;padding:8px 16px}.rankList{width:100%;border-collapse:collapse;color:var(--txt);font-size:13px}.rankList td,.rankList th{padding:6px;border-bottom:1px solid var(--line)}.rankList td:nth-child(2){overflow-wrap:anywhere}#tGo{position:relative;z-index:1;flex:0 0 auto;font-size:22px;padding:13px 44px;animation:tp 1.2s ease-in-out infinite}@keyframes tp{50%{transform:scale(1.07)}}
+#sTitle{background:#07060f;gap:12px;padding:0 0 calc(14px + env(safe-area-inset-bottom));justify-content:center;overflow:hidden}#sTitle::before{content:'';position:absolute;inset:-40px;background:url(../assets/ui/qofa-cover.jpg?v=c94842ad) center/cover;filter:blur(26px) brightness(.45);z-index:0}#ttl{position:relative;z-index:1;display:block;width:100%;flex:0 1 auto;min-height:0;max-height:calc(100% - 84px);object-fit:contain}#titleForm{position:relative;z-index:1;display:grid;justify-items:center;gap:8px;width:min(92%,360px);flex:0 0 auto}#nick,#pw{width:100%;padding:10px 14px;border:1px solid var(--line);border-radius:12px;background:#15132e;color:var(--txt);font:inherit;font-size:16px;text-align:center}#ttl{max-height:calc(100% - 145px)}#onlineRow .btn{font-size:14px;padding:8px 16px}.rankList{width:100%;border-collapse:collapse;color:var(--txt);font-size:13px}.rankList td,.rankList th{padding:6px;border-bottom:1px solid var(--line)}.rankList td:nth-child(2){overflow-wrap:anywhere}#tGo{position:relative;z-index:1;flex:0 0 auto;font-size:22px;padding:13px 44px;animation:tp 1.2s ease-in-out infinite}@keyframes tp{50%{transform:scale(1.07)}}
 .btn.ghost{background:transparent;color:var(--txt);border:2px solid var(--line);box-shadow:none;font-size:16px;padding:10px 22px}
 .btn[disabled]{opacity:.35;pointer-events:none}
 .sub{color:var(--dim);font-size:13px;margin:0;text-align:center}

diff --git a/characters.html b/characters.html
@@ -3,8 +3,8 @@
 <head>
 <meta charset="utf-8">
 <meta name="viewport" content="width=device-width,initial-scale=1">
-<title>큐떱부산 캐릭터 소개</title>
-<meta property="og:title" content="큐떱부산 캐릭터 소개">
+<title>큐오파 캐릭터 소개</title>
+<meta property="og:title" content="큐오파 캐릭터 소개">
 <meta property="og:description" content="13명의 특성과 필살기">
 <style>
 @font-face{font-family:'Pretendard';src:url(assets/fonts/Pretendard-ExtraBold.woff2?v=1b077a90) format('woff2');font-weight:100 900;font-display:swap}
@@ -67,7 +67,7 @@ footer{margin-top:48px;text-align:center;color:var(--dim);font-size:13px}
 <body>
 <div class="wrap">
   <div class="top">
-    <h1>큐떱부산<br>캐릭터 소개</h1>
+    <h1>큐오파<br>캐릭터 소개</h1>
     <p>Q·W·E·R 네 계열, 13명의 특성과 필살기입니다. 수치는 게임에 들어 있는 값 그대로입니다.</p>
     <a class="play" href="./">게임 하러 가기</a>
   </div>
@@ -234,7 +234,7 @@ footer{margin-top:48px;text-align:center;color:var(--dim);font-size:13px}
   </div>
 </article>
 </section>
-  <footer>큐떱부산 · 수치는 밸런스 조정에 따라 바뀔 수 있습니다.</footer>
+  <footer>큐오파 · 수치는 밸런스 조정에 따라 바뀔 수 있습니다.</footer>
 </div>
 </body>
 </html>

diff --git a/server/cloudflare/make_guide.py b/server/cloudflare/make_guide.py
@@ -103,8 +103,8 @@ PAGE = f'''<!DOCTYPE html>
 <head>
 <meta charset="utf-8">
 <meta name="viewport" content="width=device-width,initial-scale=1">
-<title>큐떱부산 캐릭터 소개</title>
-<meta property="og:title" content="큐떱부산 캐릭터 소개">
+<title>큐오파 캐릭터 소개</title>
+<meta property="og:title" content="큐오파 캐릭터 소개">
 <meta property="og:description" content="13명의 특성과 필살기">
 <style>
 @font-face{{font-family:'Pretendard';src:url({asset('assets/fonts/Pretendard-ExtraBold.woff2')}) format('woff2');font-weight:100 900;font-display:swap}}
@@ -167,7 +167,7 @@ footer{{margin-top:48px;text-align:center;color:var(--dim);font-size:13px}}
 <body>
 <div class="wrap">
   <div class="top">
-    <h1>큐떱부산<br>캐릭터 소개</h1>
+    <h1>큐오파<br>캐릭터 소개</h1>
     <p>Q·W·E·R 네 계열, 13명의 특성과 필살기입니다. 수치는 게임에 들어 있는 값 그대로입니다.</p>
     <a class="play" href="./">게임 하러 가기</a>
   </div>
@@ -184,7 +184,7 @@ footer{{margin-top:48px;text-align:center;color:var(--dim);font-size:13px}}
     </ul>
   </section>
 {chr(10).join(sections)}
-  <footer>큐떱부산 · 수치는 밸런스 조정에 따라 바뀔 수 있습니다.</footer>
+  <footer>큐오파 · 수치는 밸런스 조정에 따라 바뀔 수 있습니다.</footer>
 </div>
 </body>
 </html>

diff --git a/TODO.md b/TODO.md
@@ -513,3 +513,12 @@
 **서버(시험 주소)도 최신 커밋으로 맞춤 (2026-11-15 21:4x)**
 - 사용자 요청으로 커밋 `9319347`(링크 미리보기 교체 포함)을 서버에도 배포. 빌드 번호는 20261115212649 그대로라 대기 없이 바로 배포
 - 이제 정식 주소(GitHub Pages), 서버의 시험 주소, 저장소 `main`이 모두 같은 내용. 서버 `BUILD`와 게임 빌드 번호 일치, TURN 비밀값 2개 유지
+
+**게임 이름을 큐오파로 변경 (2026-11-15 배포)**
+- 사용자 지적: 미리보기 그림만 바꾸고 이름은 계속 "큐떱부산"으로 남아 있었음. 이제 큐오파 시리즈
+- `index.html`: 브라우저 탭 제목, 링크 미리보기 제목(`og:title`), 메인 메뉴 로고, 캐릭터 선택 화면 로고를 "큐오파"로 변경
+- 첫 화면: 큐떱부산 로고가 들어간 오프닝 영상 대신 큐오파 표지 그림(`assets/ui/qofa-cover.jpg`, 1344×752)을 보여 줌. 흐린 배경(`style.css`)도 같은 그림. "음성 듣기" 버튼은 재생할 영상이 없어 숨김(`hidden`). 코드와 이전 파일(`qddup-busan-title.mp4`, `qddup-busan-cover.jpg`)은 지우지 않고 남겨 둠
+- `make_guide.py`, `characters.html`: "큐오파 캐릭터 소개"
+- 공지 이미지 `notice/move-list.png`(큐오파 기술표), `notice/update-notice.png`(큐오파 업데이트 안내) 제목 갱신
+- 게임 동작은 바뀌지 않아 빌드 번호는 그대로(20261115212649). 서버도 같은 번호로 바로 배포
+- 미정: 큐오파 오프닝 영상과 음성을 새로 만들지. 주소(`/qddup-fight`), 저장소 이름, 랭킹 서버 이름은 그대로 (바꾸면 로그인·랭킹에 영향)
